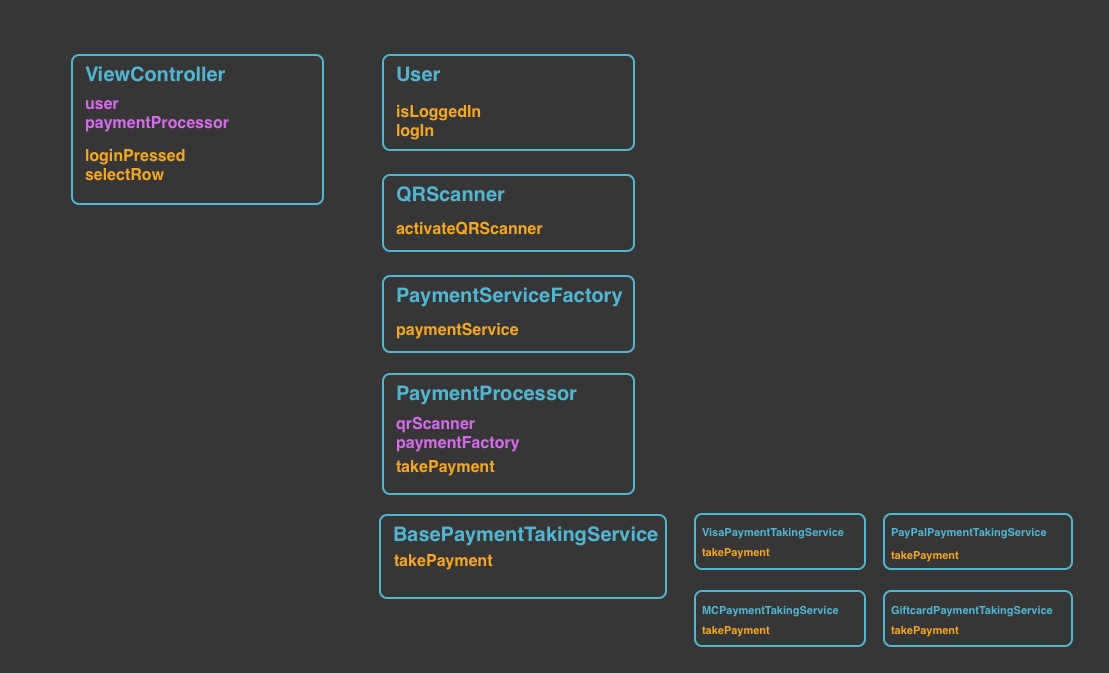
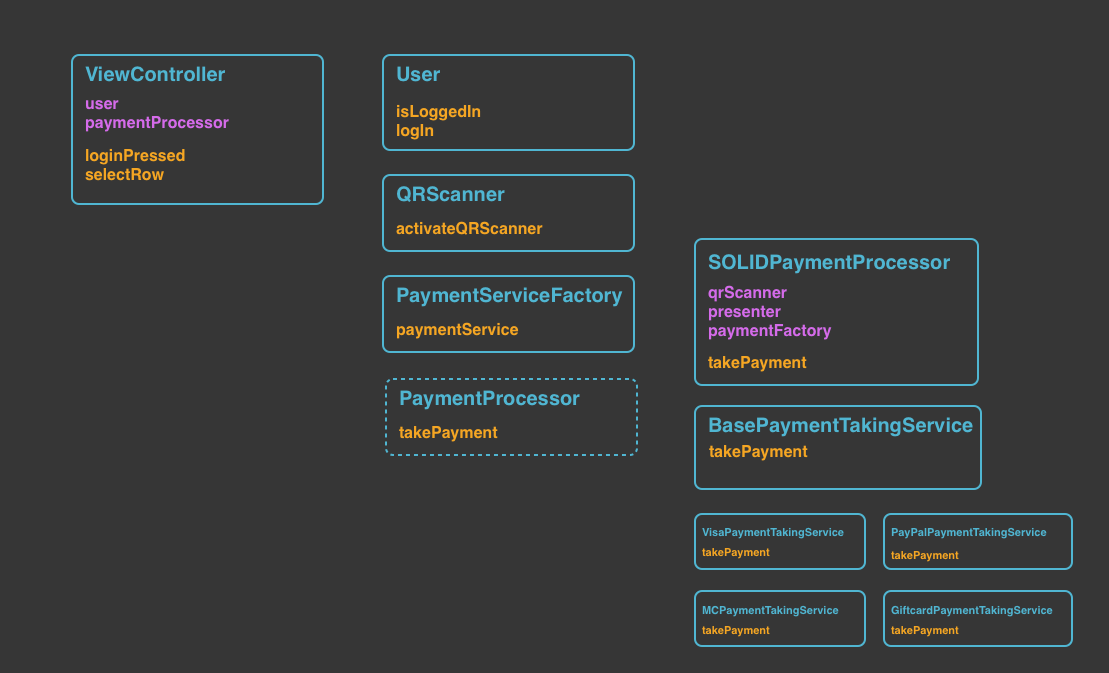
D made better

diff --git a/SOLIDiOS/ViewController_SOLID.swift b/SOLIDiOS/ViewController_SOLID.swift
@@ -8,24 +8,43 @@
 import Foundation
 import UIKit
 
+protocol PaymentProcessor {
+    func takePayment(method:PaymentMethod,
+                     paymentInfo:PaymentInfo)
+}
+
 class ViewController_SOLID: ViewController_SOLI {
 
+    var paymentProcessor: PaymentProcessor?
+    
+    override func viewDidLoad() {
+        super.viewDidLoad()
+        paymentProcessor = SOLIDPaymentProcessor(qrScanner: self.qrScanner, presenter: self)
+    }
+    
     override func tableView(_ tableView: UITableView, didSelectRowAt indexPath: IndexPath) {
         if !user.isLoggedIn() {
             showError("not logged in")
             return
         }
         let method = paymentMethods()[indexPath.row]
-        PaymentProcessor.takePayment(method: method, paymentInfo: paymentInfo, presenter: self)
+        paymentProcessor?.takePayment(method: method, paymentInfo: paymentInfo)
     }
 }
 
-class PaymentProcessor {
-    static func takePayment(method:PaymentMethod, paymentInfo:PaymentInfo, presenter:ViewController){
+class SOLIDPaymentProcessor: PaymentProcessor {
+    var qrScanner: QRScanner
+    var presenter: ViewController
+    
+    init(qrScanner:QRScanner, presenter: ViewController){
+        self.qrScanner = qrScanner
+        self.presenter = presenter
+    }
+    
+    func takePayment(method:PaymentMethod,
+                     paymentInfo:PaymentInfo){
         
         let service = BetterPaymentServiceFactory.paymentService(method: method)
-        let qrScanner:QRScanner = QRScanner()
-        qrScanner.presenter = presenter
         
         switch method {
         case .giftcard:
